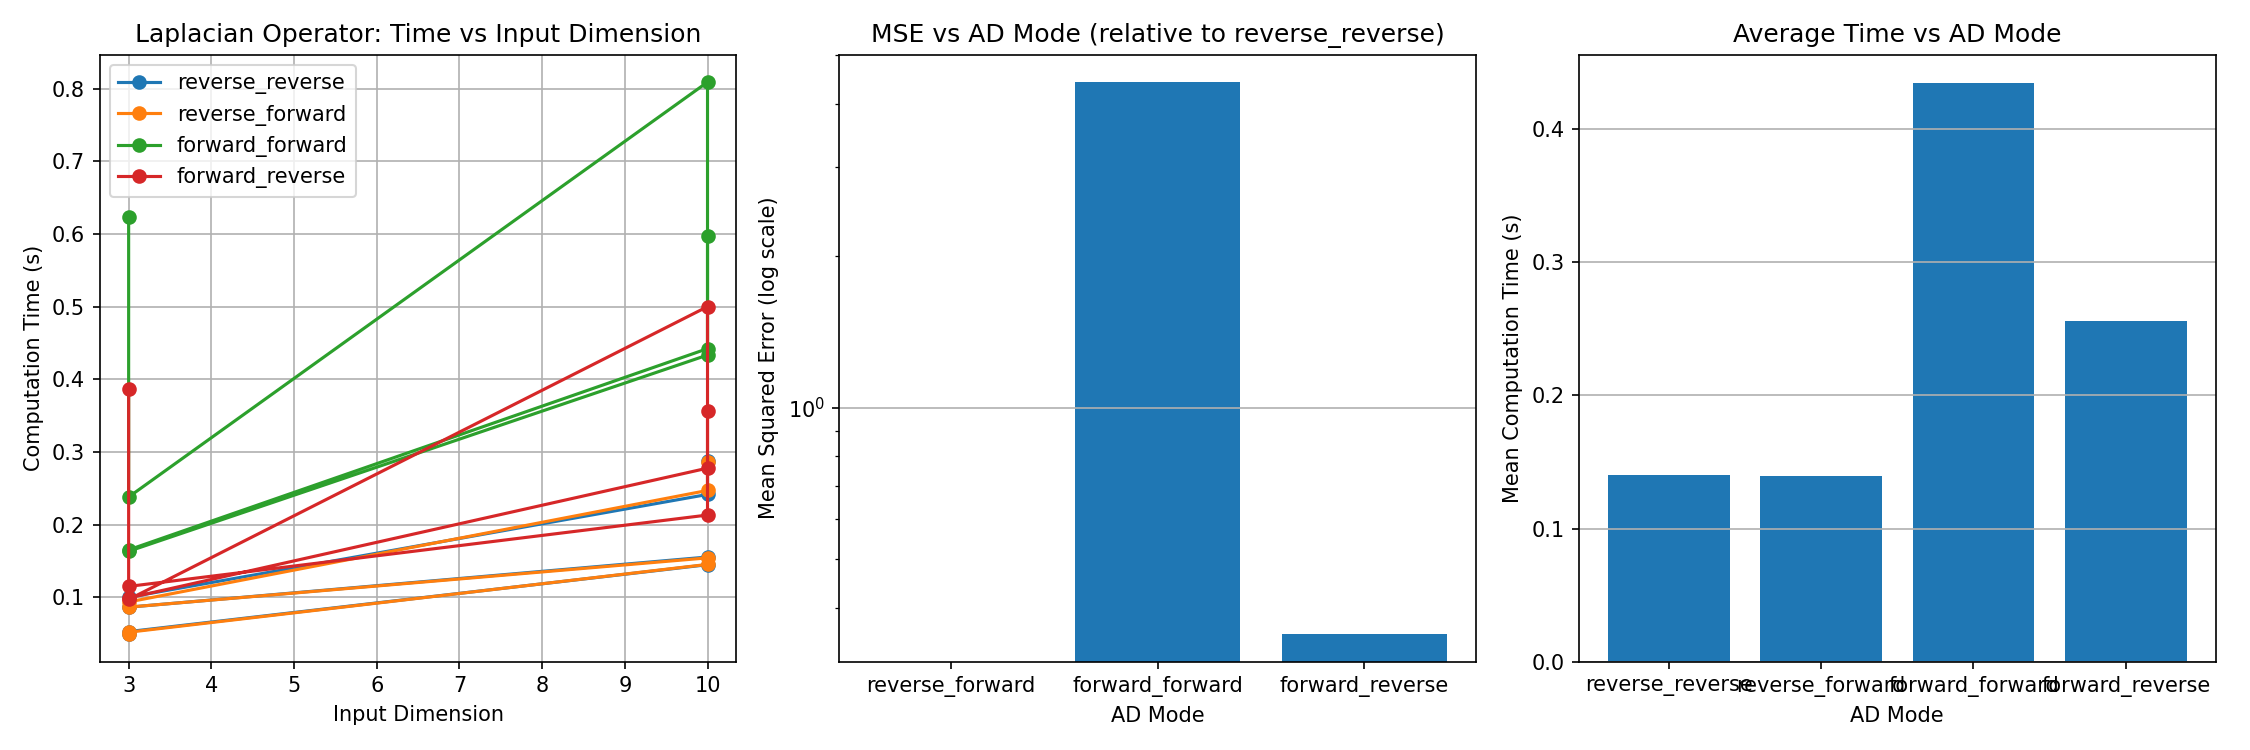
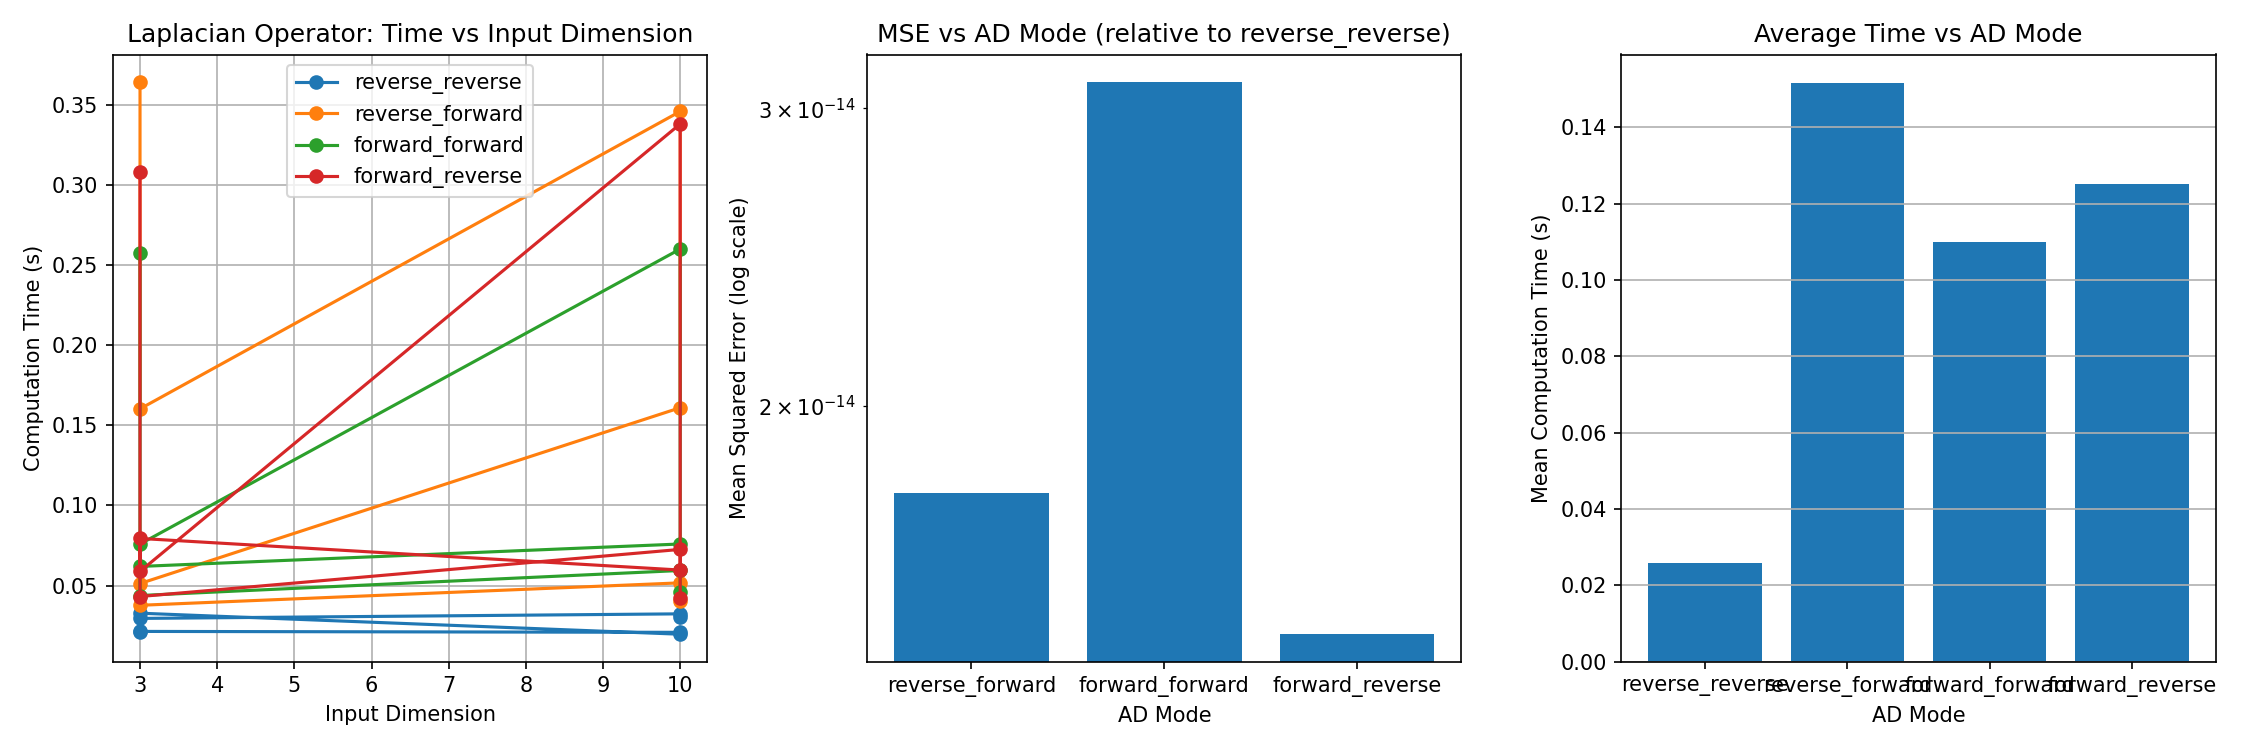
update JAX

diff --git a/operators_jax.py b/operators_jax.py
@@ -5,6 +5,43 @@ import jax
 import jax.numpy as jnp
 from jax import grad, jacfwd, jacrev
 
+
+def laplacian_operator(model, x, mode="reverse_reverse"):
+    x = jnp.asarray(x)          # x 形状: (1, d)
+    xi = x[0]                   # 单个样本向量 (d,)
+
+    def f_single(v):
+        return model(v[None, :]).sum()   # 标量输出
+
+    if mode == "reverse_reverse":
+        H = jax.jacrev(jax.jacrev(f_single))(xi)
+    elif mode == "reverse_forward":
+        H = jax.jacfwd(jax.jacrev(f_single))(xi)
+    elif mode == "forward_forward":
+        H = jax.jacfwd(jax.jacfwd(f_single))(xi)
+    elif mode == "forward_reverse":
+        H = jax.jacrev(jax.jacfwd(f_single))(xi)
+    else:
+        raise ValueError(f"Unknown mode: {mode}")
+
+    return jnp.trace(H)
+
+
+def biharmonic_operator(model, x, mode="reverse_reverse"):
+    x = jnp.asarray(x)
+    xi = x[0]
+
+    # 第一次拉普拉斯
+    g = laplacian_operator(model, x, mode=mode)
+
+    # 对 g 再做一次拉普拉斯（使用 RR 提取 Hessian 迹）
+    def g_single(v):
+        return laplacian_operator(model, v[None, :], mode=mode)
+
+    H_g = jax.jacrev(jax.jacrev(g_single))(xi)
+    return jnp.trace(H_g)
+
+'''
 def laplacian_operator(model, x, mode="reverse_reverse"):
     """
     计算拉普拉斯算子 ∇²f = Σᵢ ∂²f/∂xᵢ²
@@ -117,3 +154,4 @@ def biharmonic_operator(model, x, mode="reverse_reverse"):
         biharmonic += hess_i[:, i]
     
     return biharmonic.sum()
+    '''

diff --git a/config.py b/config.py
@@ -19,5 +19,5 @@ NUM_RUNS = 1#5
 FRAMEWORKS = ['pytorch', 'tensorflow', 'jax']  # 可以只选择部分框架测试
 
 # 当前使用的框架（可以修改为列表，支持多框架）
-CURRENT_FRAMEWORKS = ['pytorch']  # 默认只测试PyTorch，可以改为 ['pytorch', 'tensorflow', 'jax']
+CURRENT_FRAMEWORKS = ['jax']  # 默认只测试PyTorch，可以改为 ['pytorch', 'tensorflow', 'jax']
 #CURRENT_FRAMEWORKS = ['pytorch', 'tensorflow', 'jax']
